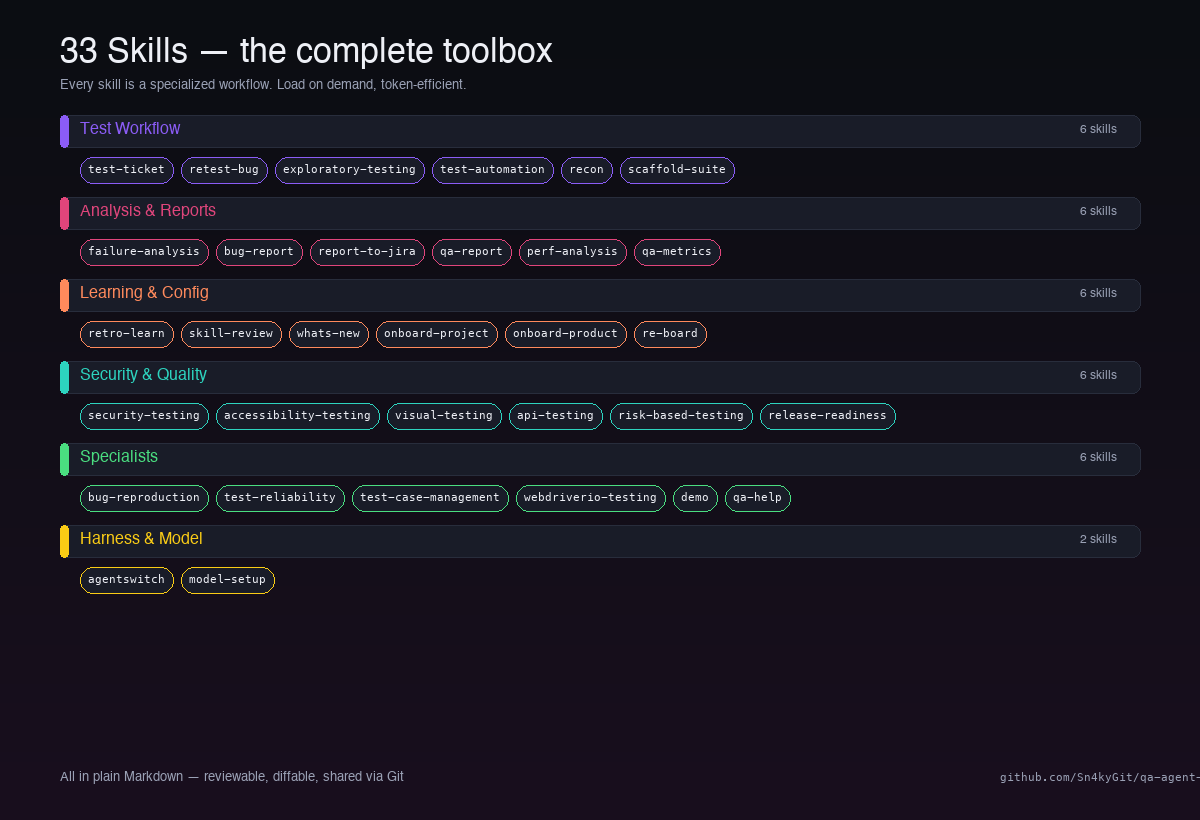
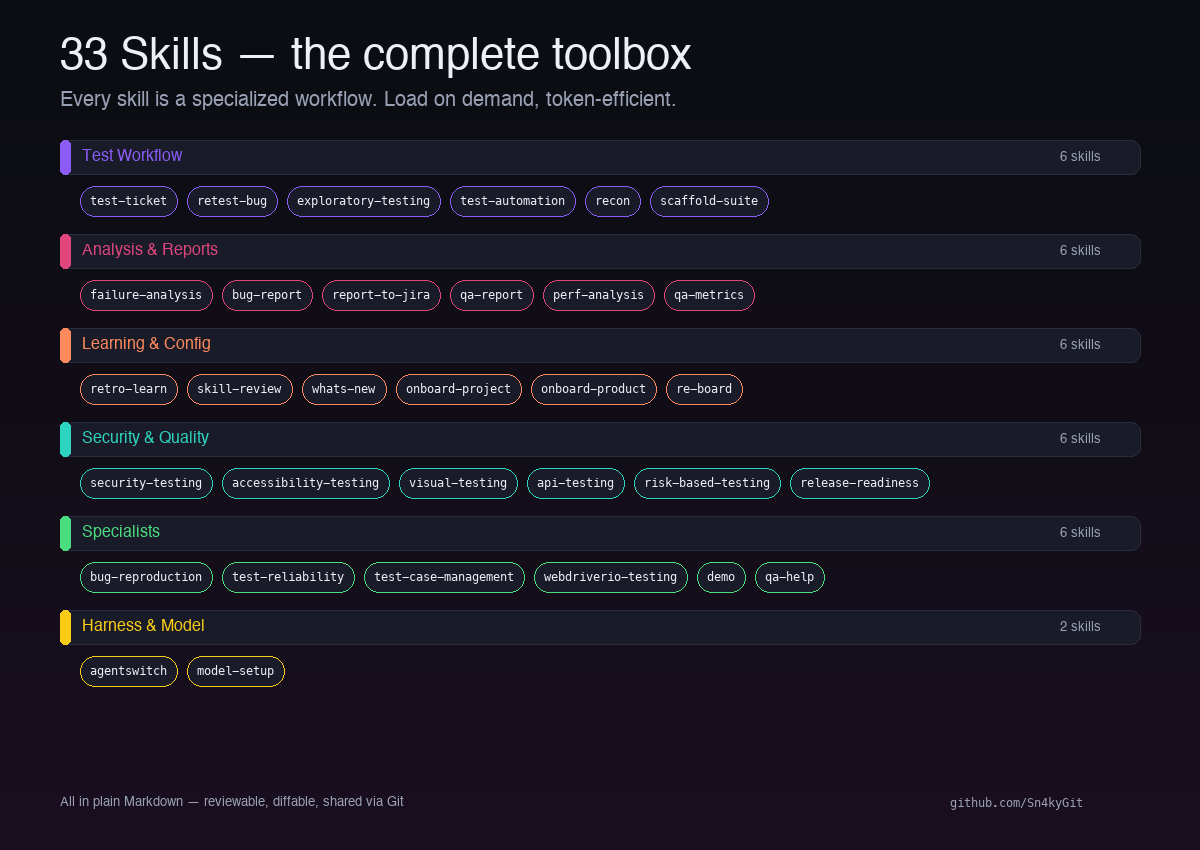
docs: polish images — proper arrows, readable text, clean layout (before-after, hero, workflow, features)

diff --git a/scripts/gen-images.py b/scripts/gen-images.py
@@ -1,0 +1,323 @@
+#!/usr/bin/env python3
+from PIL import Image, ImageDraw, ImageFont
+import os
+
+os.makedirs('docs/images', exist_ok=True)
+BG = (11, 13, 18)
+CARD = (25, 28, 40)
+BORDER = (40, 45, 60)
+INK = (238, 240, 246)
+MUTED = (154, 161, 181)
+VIOLET = (139, 92, 246)
+FUCHSIA = (224, 69, 123)
+ORANGE = (255, 138, 92)
+TEAL = (45, 212, 191)
+GREEN = (74, 222, 128)
+RED = (248, 113, 113)
+YELLOW = (250, 204, 21)
+
+try:
+    title_font = ImageFont.truetype("/System/Library/Fonts/Helvetica.ttc", 44)
+    h2_font = ImageFont.truetype("/System/Library/Fonts/Helvetica.ttc", 26)
+    h3_font = ImageFont.truetype("/System/Library/Fonts/Helvetica.ttc", 20)
+    body_font = ImageFont.truetype("/System/Library/Fonts/Helvetica.ttc", 16)
+    small_font = ImageFont.truetype("/System/Library/Fonts/Helvetica.ttc", 13)
+    tiny_font = ImageFont.truetype("/System/Library/Fonts/Helvetica.ttc", 11)
+    mono_font = ImageFont.truetype("/System/Library/Fonts/Menlo.ttc", 14)
+    mono_small = ImageFont.truetype("/System/Library/Fonts/Menlo.ttc", 12)
+    mono_tiny = ImageFont.truetype("/System/Library/Fonts/Menlo.ttc", 11)
+except:
+    title_font = h2_font = h3_font = body_font = small_font = tiny_font = mono_font = mono_small = mono_tiny = ImageFont.load_default()
+
+def gradient(draw, w, h):
+    for y in range(h):
+        r = int(11 + (25-11) * y / h)
+        g = int(13 + (15-13) * y / h)
+        b = int(18 + (30-18) * y / h)
+        draw.line([(0, y), (w, y)], fill=(r, g, b))
+
+def make_hero():
+    W, H = 1200, 680
+    img = Image.new('RGB', (W, H), BG)
+    draw = ImageDraw.Draw(img)
+    gradient(draw, W, H)
+
+    draw.text((60, 45), "QA Agent Blueprint", font=title_font, fill=INK)
+    draw.text((60, 105), "Turn Claude Code into a learning QA Manager", font=h2_font, fill=MUTED)
+
+    badges = ["33 Skills", "9 Subagents", "4 Hooks", "2 MCP Servers", "Apache 2.0"]
+    bx = 60
+    for b in badges:
+        bbox = draw.textbbox((0, 0), b, font=small_font)
+        bw = bbox[2] - bbox[0] + 24
+        draw.rounded_rectangle((bx, 155, bx + bw, 185), radius=15, fill=CARD, outline=BORDER)
+        draw.text((bx + 12, 162), b, font=small_font, fill=MUTED)
+        bx += bw + 12
+
+    pipe_y = 245
+    pipe_h = 90
+    pipe_w = 150
+    gap = 22
+    start_x = 60
+
+    steps = [
+        ("JIRA Ticket", "SHOP-1234", VIOLET),
+        ("Route", "Project + Product", FUCHSIA),
+        ("Test", "Exploratory + CLI", ORANGE),
+        ("Evidence", "Screenshots + Logs", TEAL),
+        ("Report", "Comment + Transition", VIOLET),
+        ("Learn", "Captured + Enforced", FUCHSIA),
+    ]
+
+    for i, (title, sub, color) in enumerate(steps):
+        x = start_x + i * (pipe_w + gap)
+        draw.rounded_rectangle((x, pipe_y, x + pipe_w, pipe_y + pipe_h), radius=14, fill=CARD, outline=color, width=2)
+        draw.rounded_rectangle((x + 2, pipe_y + 2, x + pipe_w - 2, pipe_y + 6), radius=2, fill=color)
+        draw.text((x + 14, pipe_y + 22), title, font=body_font, fill=INK)
+        draw.text((x + 14, pipe_y + 52), sub, font=small_font, fill=MUTED)
+        if i < len(steps) - 1:
+            ax = x + pipe_w + 5
+            ay = pipe_y + pipe_h // 2
+            draw.polygon([(ax, ay), (ax + 14, ay - 7), (ax + 14, ay + 7)], fill=MUTED)
+
+    stats_y = 400
+    stats = [
+        ("~7k", "Token Budget", VIOLET),
+        ("46", "Eval Cases", FUCHSIA),
+        ("152+17", "Tests", ORANGE),
+        ("Security", "Audited", TEAL),
+    ]
+    sx = 60
+    for val, label, color in stats:
+        draw.rounded_rectangle((sx, stats_y, sx + 190, stats_y + 75), radius=14, fill=CARD, outline=BORDER)
+        draw.text((sx + 18, stats_y + 14), val, font=h3_font, fill=color)
+        draw.text((sx + 18, stats_y + 46), label, font=small_font, fill=MUTED)
+        sx += 205
+
+    draw.text((60, H - 55), "github.com/Sn4kyGit/qa-agent-blueprint", font=mono_small, fill=MUTED)
+    draw.text((W - 280, H - 55), "Claude Code + opencode", font=small_font, fill=MUTED)
+    img.save('docs/images/hero.png', 'PNG', optimize=True)
+    print(f"hero.png: {os.path.getsize('docs/images/hero.png')} bytes")
+
+def make_workflow():
+    W, H = 1200, 720
+    img = Image.new('RGB', (W, H), BG)
+    draw = ImageDraw.Draw(img)
+    gradient(draw, W, H)
+
+    draw.text((60, 35), "How it works", font=title_font, fill=INK)
+    draw.text((60, 90), "From JIRA ticket to verified result — enforced, not suggested", font=h3_font, fill=MUTED)
+
+    input_x = 60
+    input_y = 150
+    draw.rounded_rectangle((input_x, input_y, input_x + 200, input_y + 70), radius=16, fill=CARD, outline=VIOLET, width=2)
+    draw.text((input_x + 20, input_y + 15), "JIRA Ticket", font=h3_font, fill=INK)
+    draw.text((input_x + 20, input_y + 45), "SHOP-1234", font=mono_font, fill=VIOLET)
+
+    arrow_x = input_x + 210
+    arrow_y = input_y + 30
+    draw.polygon([(arrow_x, arrow_y), (arrow_x + 25, arrow_y - 10), (arrow_x + 25, arrow_y + 10)], fill=MUTED)
+
+    pipe_x = 280
+    pipe_y = 140
+    pipe_w = 500
+    pipe_h = 300
+
+    steps = [
+        ("1", "Read & Route", "Match ticket to project + product", VIOLET),
+        ("2", "Check Readiness", "Deployed build, merge status, VPN", FUCHSIA),
+        ("3", "Test", "Exploratory + regression (MCP or CLI)", ORANGE),
+        ("4", "Produce Evidence", "Screenshots, logs, execution_summary.json", TEAL),
+        ("5", "Report & Learn", "JIRA comment + captured learnings", GREEN),
+    ]
+
+    sy = pipe_y
+    for num, title, desc, color in steps:
+        cx = pipe_x + 30
+        cy = sy + 20
+        draw.ellipse((cx - 16, cy - 16, cx + 16, cy + 16), fill=color)
+        draw.text((cx - 5, cy - 10), num, font=h3_font, fill=BG)
+        draw.text((pipe_x + 65, sy + 5), title, font=body_font, fill=INK)
+        draw.text((pipe_x + 65, sy + 30), desc, font=small_font, fill=MUTED)
+        if num != "5":
+            draw.line([(cx, cy + 18), (cx, cy + 38)], fill=BORDER, width=2)
+        sy += 60
+
+    arrow_x = pipe_x + pipe_w + 10
+    arrow_y = pipe_y + pipe_h // 2
+    draw.polygon([(arrow_x, arrow_y), (arrow_x + 25, arrow_y - 10), (arrow_x + 25, arrow_y + 10)], fill=MUTED)
+
+    out_x = 830
+    out_y = 140
+    outputs = [
+        ("Verdict", "PASS / FAIL / BLOCKED", GREEN),
+        ("Evidence", "8 artifacts in run dir", TEAL),
+        ("JIRA Report", "Comment + transition", VIOLET),
+        ("Learnings", "Captured + declared", FUCHSIA),
+    ]
+
+    oy = out_y
+    for title, desc, color in outputs:
+        draw.rounded_rectangle((out_x, oy, out_x + 310, oy + 60), radius=14, fill=CARD, outline=color, width=1)
+        draw.text((out_x + 16, oy + 10), title, font=body_font, fill=INK)
+        draw.text((out_x + 16, oy + 35), desc, font=small_font, fill=MUTED)
+        oy += 72
+
+    insight_y = 500
+    draw.rounded_rectangle((60, insight_y, W - 60, insight_y + 110), radius=16, fill=CARD, outline=BORDER, width=1)
+    draw.text((85, insight_y + 15), "The key insight", font=h3_font, fill=INK)
+    draw.text((85, insight_y + 48), "The agent knows YOUR project because it reads PROJECT.md (test users, environments,", font=small_font, fill=MUTED)
+    draw.text((85, insight_y + 70), "deploy runbook) and PRODUCT.md (what differs per product). None of that is in the prompt —", font=small_font, fill=MUTED)
+    draw.text((85, insight_y + 92), "it comes from files in your repo. Reviewable, diffable, shared via Git.", font=small_font, fill=MUTED)
+
+    badge_y = 640
+    badges_enforced = [
+        ("Evidence", "enforced by Stop hook", TEAL),
+        ("Learnings", "enforced by Stop hook", FUCHSIA),
+        ("Shadow mode", "default: no JIRA writes", ORANGE),
+        ("Security", "guard blocks secrets + self-escalation", VIOLET),
+    ]
+    bx = 60
+    for title, desc, color in badges_enforced:
+        bw = 260
+        draw.rounded_rectangle((bx, badge_y, bx + bw, badge_y + 55), radius=12, fill=CARD, outline=color, width=1)
+        draw.text((bx + 14, badge_y + 8), title, font=small_font, fill=color)
+        draw.text((bx + 14, badge_y + 30), desc, font=small_font, fill=MUTED)
+        bx += bw + 15
+
+    img.save('docs/images/workflow.png', 'PNG', optimize=True)
+    print(f"workflow.png: {os.path.getsize('docs/images/workflow.png')} bytes")
+
+def make_before_after():
+    W, H = 1200, 720
+    img = Image.new('RGB', (W, H), BG)
+    draw = ImageDraw.Draw(img)
+    gradient(draw, W, H)
+
+    draw.text((60, 35), "Before vs. After", font=title_font, fill=INK)
+    draw.text((60, 90), "The same ticket, two very different workflows", font=h3_font, fill=MUTED)
+
+    panel_y = 140
+    panel_h = 520
+    panel_w = 520
+
+    left_x = 60
+    draw.rounded_rectangle((left_x, panel_y, left_x + panel_w, panel_y + panel_h), radius=18, fill=(28, 16, 16), outline=(70, 28, 28), width=2)
+    draw.text((left_x + 25, panel_y + 18), "WITHOUT Blueprint", font=h2_font, fill=RED)
+
+    pains = [
+        "Manual test planning (30-50% overhead)",
+        "No evidence discipline — 'looks good!'",
+        "Forgets between sessions",
+        "Inconsistent bug reports",
+        "No learning from past runs",
+        "Token waste re-reading context",
+        "No security guardrails",
+        "Slow, manual, error-prone",
+    ]
+    py = panel_y + 75
+    for p in pains:
+        draw.text((left_x + 30, py), "X", font=body_font, fill=RED)
+        draw.text((left_x + 55, py), p, font=small_font, fill=MUTED)
+        py += 42
+
+    draw.text((left_x + 25, panel_y + panel_h - 55), "Time per ticket:", font=small_font, fill=MUTED)
+    draw.text((left_x + 25, panel_y + panel_h - 32), "~2-4 hours", font=h2_font, fill=RED)
+
+    arrow_cx = left_x + panel_w + 10
+    arrow_cy = panel_y + panel_h // 2
+    draw.polygon([(arrow_cx, arrow_cy), (arrow_cx + 35, arrow_cy - 12), (arrow_cx + 35, arrow_cy + 12)], fill=VIOLET)
+    draw.text((arrow_cx - 2, arrow_cy + 25), "improves", font=tiny_font, fill=VIOLET)
+
+    right_x = 640
+    draw.rounded_rectangle((right_x, panel_y, right_x + panel_w, panel_y + panel_h), radius=18, fill=(15, 22, 18), outline=(28, 70, 45), width=2)
+    draw.text((right_x + 25, panel_y + 18), "WITH QA Agent Blueprint", font=h2_font, fill=GREEN)
+
+    solutions = [
+        "Autonomous test planning + execution",
+        "Mandatory evidence — Stop hook enforces",
+        "Learning loop — remembers what it learned",
+        "Project-conformant bug reports",
+        "Promotion: seen twice -> becomes a rule",
+        "7k always-loaded budget, on-demand skills",
+        "Security guard + shadow mode + audit",
+        "Fast, consistent, auditable",
+    ]
+    sy = panel_y + 75
+    for s in solutions:
+        draw.text((right_x + 30, sy), "+", font=body_font, fill=GREEN)
+        draw.text((right_x + 55, sy), s, font=small_font, fill=MUTED)
+        sy += 42
+
+    draw.text((right_x + 25, panel_y + panel_h - 55), "Time per ticket:", font=small_font, fill=MUTED)
+    draw.text((right_x + 25, panel_y + panel_h - 32), "~15-30 min", font=h2_font, fill=GREEN)
+
+    img.save('docs/images/before-after.png', 'PNG', optimize=True)
+    print(f"before-after.png: {os.path.getsize('docs/images/before-after.png')} bytes")
+
+def make_features():
+    W, H = 1200, 850
+    img = Image.new('RGB', (W, H), BG)
+    draw = ImageDraw.Draw(img)
+    gradient(draw, W, H)
+
+    draw.text((60, 35), "33 Skills — the complete toolbox", font=title_font, fill=INK)
+    draw.text((60, 90), "Every skill is a specialized workflow. Load on demand, token-efficient.", font=h3_font, fill=MUTED)
+
+    categories = [
+        ("Test Workflow", VIOLET, [
+            "test-ticket", "retest-bug", "exploratory-testing",
+            "test-automation", "recon", "scaffold-suite",
+        ]),
+        ("Analysis & Reports", FUCHSIA, [
+            "failure-analysis", "bug-report", "report-to-jira",
+            "qa-report", "perf-analysis", "qa-metrics",
+        ]),
+        ("Learning & Config", ORANGE, [
+            "retro-learn", "skill-review", "whats-new",
+            "onboard-project", "onboard-product", "re-board",
+        ]),
+        ("Security & Quality", TEAL, [
+            "security-testing", "accessibility-testing", "visual-testing",
+            "api-testing", "risk-based-testing", "release-readiness",
+        ]),
+        ("Specialists", GREEN, [
+            "bug-reproduction", "test-reliability", "test-case-management",
+            "webdriverio-testing", "demo", "qa-help",
+        ]),
+        ("Harness & Model", YELLOW, [
+            "agentswitch", "model-setup",
+        ]),
+    ]
+
+    cat_y = 140
+    for cat_name, cat_color, skills in categories:
+        draw.rounded_rectangle((60, cat_y, W - 60, cat_y + 34), radius=10, fill=CARD, outline=BORDER)
+        draw.rounded_rectangle((60, cat_y, 70, cat_y + 34), radius=5, fill=cat_color)
+        draw.text((82, cat_y + 8), cat_name, font=body_font, fill=cat_color)
+        draw.text((W - 140, cat_y + 10), f"{len(skills)} skills", font=small_font, fill=MUTED)
+        cat_y += 46
+        
+        chip_x = 80
+        chip_y = cat_y
+        for skill in skills:
+            bbox = draw.textbbox((0, 0), skill, font=mono_small)
+            chip_w = bbox[2] - bbox[0] + 20
+            if chip_x + chip_w > W - 80:
+                chip_x = 80
+                chip_y += 36
+            draw.rounded_rectangle((chip_x, chip_y, chip_x + chip_w, chip_y + 30), radius=15, fill=CARD, outline=cat_color, width=1)
+            draw.text((chip_x + 10, chip_y + 7), skill, font=mono_small, fill=INK)
+            chip_x += chip_w + 10
+        
+        cat_y = chip_y + 48
+
+    draw.text((60, H - 55), "All in plain Markdown — reviewable, diffable, shared via Git", font=small_font, fill=MUTED)
+    draw.text((W - 250, H - 55), "github.com/Sn4kyGit", font=mono_small, fill=MUTED)
+    img.save('docs/images/features.png', 'PNG', optimize=True)
+    print(f"features.png: {os.path.getsize('docs/images/features.png')} bytes")
+
+make_hero()
+make_workflow()
+make_before_after()
+make_features()
